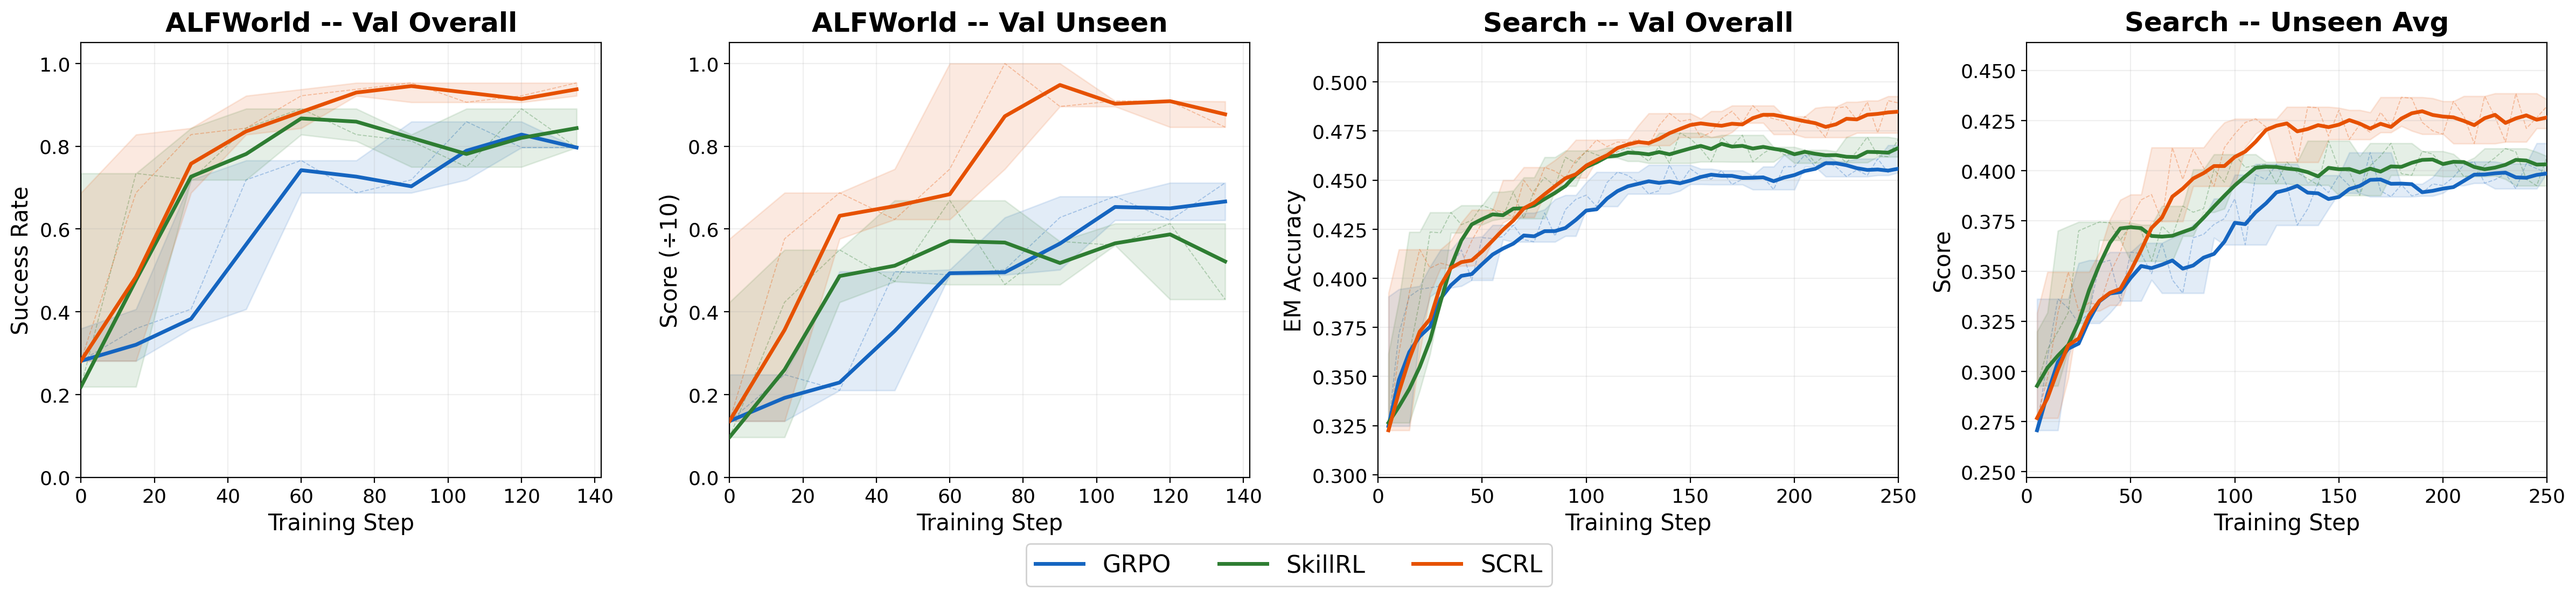
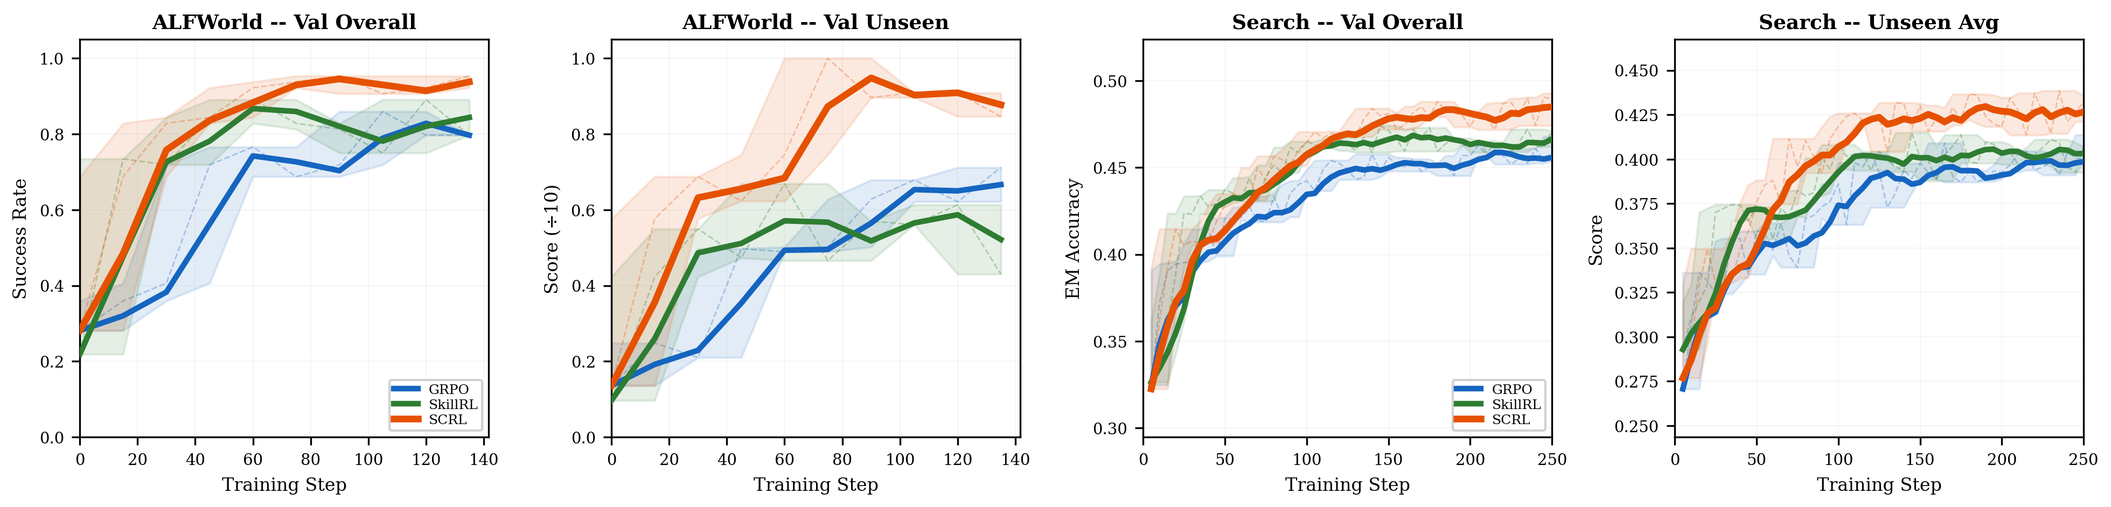
Rename HippoRAG→RAG, Qwen3-4B→Qwen3-4B-Instruct; align results figure style with ablation

diff --git a/scrl.tex b/scrl.tex
@@ -235,7 +235,7 @@ The complete procedure for \ours~is provided in Algorithm~\ref{alg:scrl}. Overal
 We evaluate \ours~on two diverse agentic benchmarks: multi-hop question answering with a search tool (NQ + HotpotQA) and ALFWorld \citep{shridharalfworld} (embodied household tasks). We conduct experiments using the Qwen3 model family \citep{bai2023qwen} at two scales: 4B and 8B parameters.
 
 \rparagraph{Baselines}
-We compare \ours~against two categories of baselines. \textit{Prompt-based methods}: zero-shot \textbf{Baseline} (Qwen3-4B-Instruct), and retrieval-augmented variants including \textbf{BM25}, \textbf{HippoRAG}, and \textbf{Long Context} (full trajectory history in context). \textit{RL methods}: \textbf{GRPO}, standard GRPO training with a static instruction and no skills, and \textbf{SkillRL} \citep{xia2025skillrl}, which distills teacher-model skills as static augmentations. We also evaluate ablation variants of \ours~(see \S\ref{sec:ablation}). Implementation details are provided in Appendix~\ref{app:implementation}.
+We compare \ours~against two categories of baselines. \textit{Prompt-based methods}: zero-shot \textbf{Baseline} (Qwen3-4B-Instruct), and retrieval-augmented variants including \textbf{BM25}, \textbf{RAG}, and \textbf{Long Context} (full trajectory history in context). \textit{RL methods}: \textbf{GRPO}, standard GRPO training with a static instruction and no skills, and \textbf{SkillRL} \citep{xia2025skillrl}, which distills teacher-model skills as static augmentations. We also evaluate ablation variants of \ours~(see \S\ref{sec:ablation}). Implementation details are provided in Appendix~\ref{app:implementation}.
 
 \subsection{Main Results}
 
@@ -253,12 +253,12 @@ We compare \ours~against two categories of baselines. \textit{Prompt-based metho
 \cmidrule(lr){3-6} \cmidrule(lr){8-11}
 & Method & P\&P & Trans. & Exam. & Avg && P\&P & Trans. & Exam. & Avg & Overall \\
 \midrule
-\rowcolor{Gray} \multicolumn{12}{c}{\textbf{Qwen3-4B}} \\
+\rowcolor{Gray} \multicolumn{12}{c}{\textbf{Qwen3-4B-Instruct}} \\
 \midrule
 \textit{Baseline} & Zero-shot & 54.7\tpm{0.0} & 28.1\tpm{0.0} & 28.6\tpm{0.0} & 37.1\tpm{0.0} && 30.8\tpm{0.0} & 28.9\tpm{0.0} & 66.7\tpm{0.0} & 32.8\tpm{0.0} & 35.0\tpm{0.0} \\
 \midrule
 \multirow{3}{*}{\textit{w/ Skill}} & BM25 & 46.9\tpm{0.0} & 20.9\tpm{0.0} & 50.0\tpm{0.0} & 35.0\tpm{0.0} && 23.1\tpm{0.0} & 28.9\tpm{0.0} & 66.7\tpm{0.0} & 31.3\tpm{0.0} & 33.2\tpm{0.0} \\
-& HippoRAG & 43.8\tpm{0.0} & 18.5\tpm{0.0} & 64.3\tpm{0.0} & 34.3\tpm{0.0} && 21.2\tpm{0.0} & 43.8\tpm{0.0} & 83.3\tpm{0.0} & 38.1\tpm{0.0} & 36.1\tpm{0.0} \\
+& RAG & 43.8\tpm{0.0} & 18.5\tpm{0.0} & 64.3\tpm{0.0} & 34.3\tpm{0.0} && 21.2\tpm{0.0} & 43.8\tpm{0.0} & 83.3\tpm{0.0} & 38.1\tpm{0.0} & 36.1\tpm{0.0} \\
 & Long Context & 62.5\tpm{0.0} & 48.9\tpm{0.0} & 50.0\tpm{0.0} & 54.3\tpm{0.0} && 28.8\tpm{0.0} & 67.0\tpm{0.0} & 66.7\tpm{0.0} & 51.5\tpm{0.0} & 52.9\tpm{0.0} \\
 \midrule
 \multirow{3}{*}{\textit{w/ RL}} & GRPO & 93.1\tpm{1.2} & 62.5\tpm{5.7} & \textbf{92.3}\tpm{0.0} & 78.6\tpm{3.3} && 84.2\tpm{5.2} & 72.6\tpm{2.7} & 94.4\tpm{9.6} & 78.9\tpm{1.9} & 78.7\tpm{2.6} \\
@@ -280,12 +280,12 @@ We compare \ours~against two categories of baselines. \textit{Prompt-based metho
 \cmidrule(lr){3-5} \cmidrule(lr){7-9}
 & Method & SH & MH & Avg && SH & MH & Avg & Overall \\
 \midrule
-\rowcolor{Gray} \multicolumn{10}{c}{\textbf{Qwen3-4B}} \\
+\rowcolor{Gray} \multicolumn{10}{c}{\textbf{Qwen3-4B-Instruct}} \\
 \midrule
 \textit{Baseline} & Zero-shot & 19.3\tpm{0.0} & 28.7\tpm{0.0} & 24.0\tpm{0.0} && 34.3\tpm{0.0} & 23.7\tpm{0.0} & 28.5\tpm{0.0} & 27.1\tpm{0.0} \\
 \midrule
 \multirow{3}{*}{\textit{w/ Skill}} & BM25 & 25.3\tpm{0.0} & 35.0\tpm{0.0} & 30.2\tpm{0.0} && 44.3\tpm{0.0} & 23.7\tpm{0.0} & 33.1\tpm{0.0} & 32.2\tpm{0.0} \\
-& HippoRAG & 30.7\tpm{0.0} & 36.3\tpm{0.0} & 33.5\tpm{0.0} && 46.6\tpm{0.0} & 22.2\tpm{0.0} & 33.3\tpm{0.0} & 33.4\tpm{0.0} \\
+& RAG & 30.7\tpm{0.0} & 36.3\tpm{0.0} & 33.5\tpm{0.0} && 46.6\tpm{0.0} & 22.2\tpm{0.0} & 33.3\tpm{0.0} & 33.4\tpm{0.0} \\
 & Long Context & 31.7\tpm{0.0} & 34.0\tpm{0.0} & 32.8\tpm{0.0} && 47.8\tpm{0.0} & 24.4\tpm{0.0} & 35.0\tpm{0.0} & 34.3\tpm{0.0} \\
 \midrule
 \multirow{3}{*}{\textit{w/ RL}} & GRPO & 48.0\tpm{0.0} & 52.4\tpm{1.2} & 50.2\tpm{0.6} && 54.7\tpm{0.0} & 31.4\tpm{0.8} & 42.0\tpm{0.5} & 44.6\tpm{0.3} \\
@@ -317,7 +317,7 @@ We compare \ours~against two categories of baselines. \textit{Prompt-based metho
 \begin{figure*}[!t]
 \centering
 \includegraphics[width=\textwidth]{figures/search_skill_lifecycle.png}
-\caption{Skill-policy co-evolution on Search (Qwen3-4B). Left: validation EM accuracy for GRPO (no skills) and \ours, with colored bands marking three stages of skill evolution. Right: key skill operations at each stage. Stage~1 builds a search workflow from scratch (\textcolor[HTML]{2E7D32}{+}~add). Stage~2 adds multi-hop reasoning and resolves design conflicts (\textcolor[HTML]{C62828}{$-$}~delete of internalized skills). Stage~3 refines output formatting and calibrates search depth. Skills are proposed, tested, and accepted or rejected automatically by Thompson Sampling within GRPO rollouts.}
+\caption{Skill-policy co-evolution on Search (Qwen3-4B-Instruct). Left: validation EM accuracy for GRPO (no skills) and \ours, with colored bands marking three stages of skill evolution. Right: key skill operations at each stage. Stage~1 builds a search workflow from scratch (\textcolor[HTML]{2E7D32}{+}~add). Stage~2 adds multi-hop reasoning and resolves design conflicts (\textcolor[HTML]{C62828}{$-$}~delete of internalized skills). Stage~3 refines output formatting and calibrates search depth. Skills are proposed, tested, and accepted or rejected automatically by Thompson Sampling within GRPO rollouts.}
 \label{fig:skill_lifecycle}
 \end{figure*}
 
